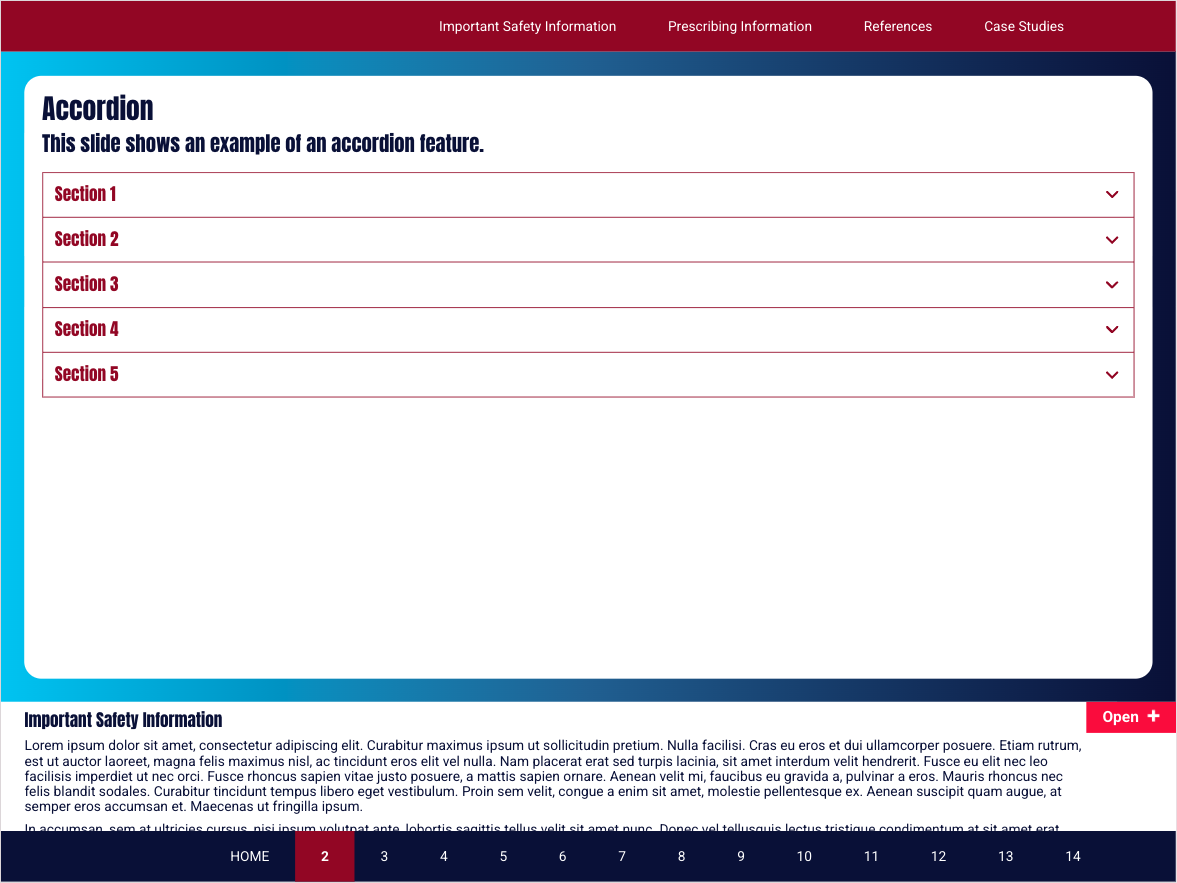
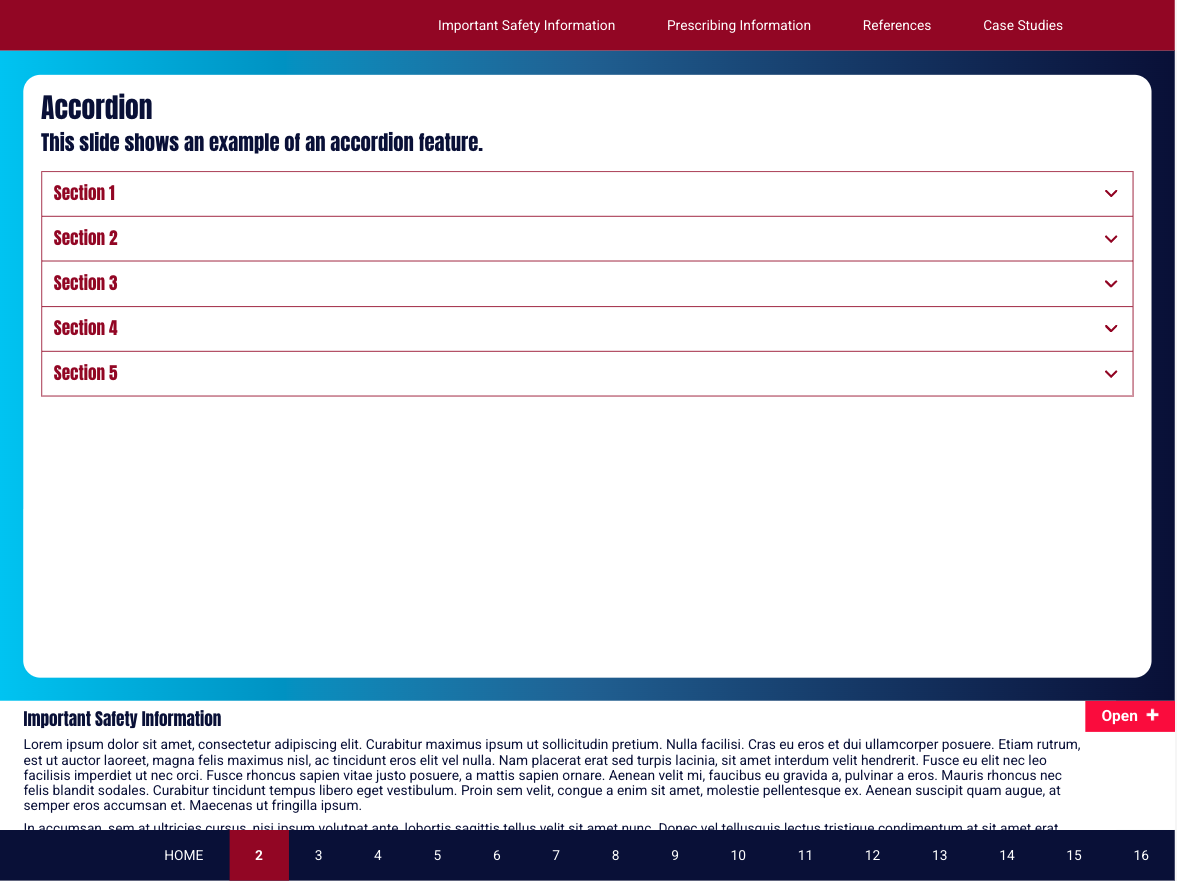
new thumbs + slides updated in READme

diff --git a/README.md b/README.md
@@ -18,6 +18,9 @@ This is a base app template build for the Veeva CRM platform.  This will compile
 | playground12 | Resources (Scroll) |
 | playground13 | Resources (Tabbed) |
 | playground14 | PDF Library |
+| playground15 | Email |
+| playground16 | RTE w/ Fragments |
+
 
 ## Requirements
 
